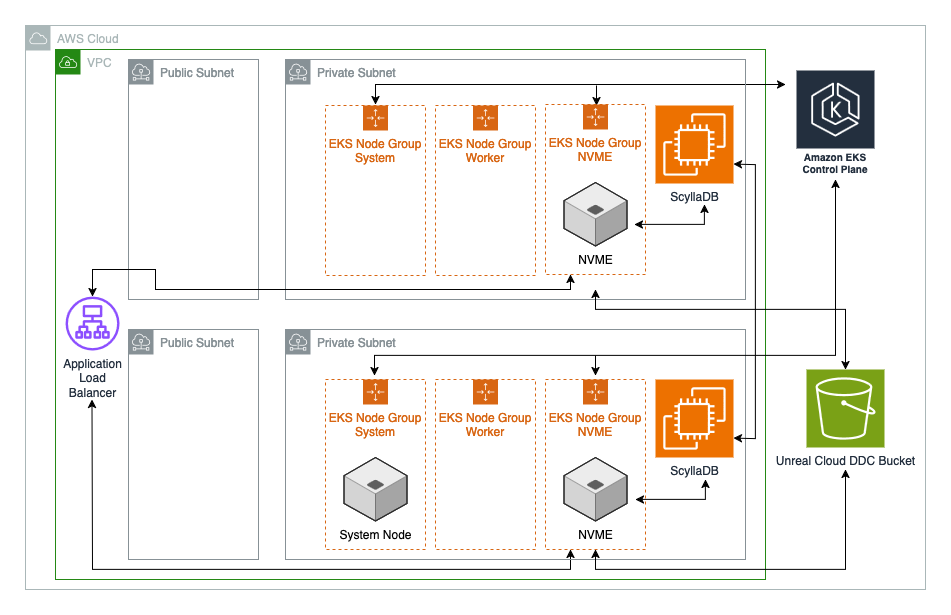
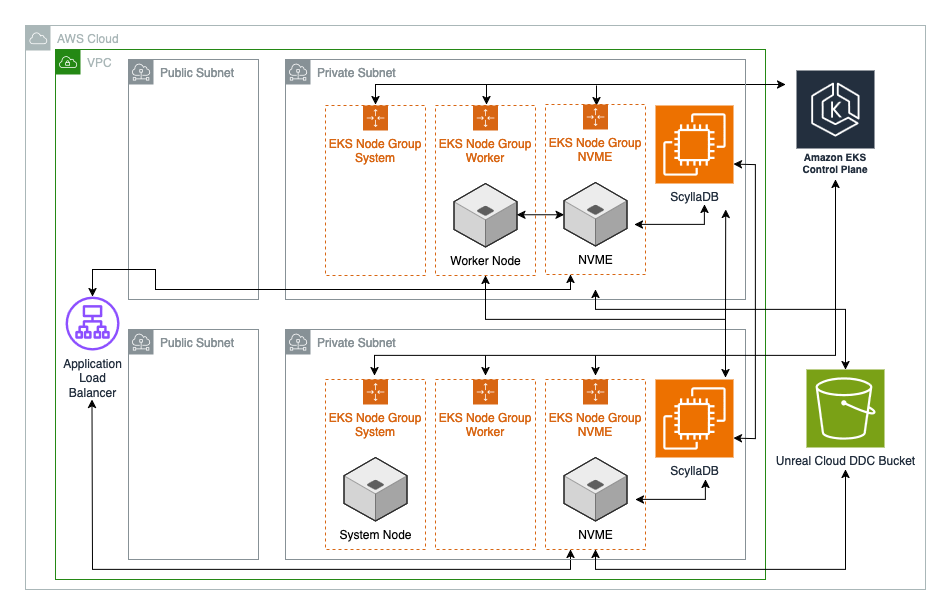
updated docs for release

Changed region(s): [[0.4574, 0.3089, 0.6099, 0.4325], [0.5184, 0.4943, 0.7624, 0.5252]]

diff --git a/docs/samples/unreal-cloud-ddc-single-region.md b/docs/samples/unreal-cloud-ddc-single-region.md
@@ -1,0 +1,89 @@
+---
+title: Unreal Cloud Derived Data Cache - Single Region
+description: Unreal Cloud Derived Data Cache implementation on AWS
+---
+
+# Unreal Cloud DDC Single Region
+
+The Unreal Cloud DDC Single Region is a comprehensive solution that leverages several AWS services to create a robust and efficient data caching system. It uses a well-designed Virtual Private Cloud (VPC) to ensure network isolation and security. The solution employs an Amazon Elastic Kubernetes Service (EKS) Cluster with Node Groups to manage and orchestrate containerized applications.
+
+At the heart of the system is an instance of ScyllaDB, a high-performance NoSQL database, running on specially optimized Amazon EC2 instances. The Unreal Cloud Derived Data Cache Container is managed by Helm, a package manager for Kubernetes, and uses Amazon S3 for durable storage.
+
+## Predeployment
+
+There are a couple of important steps you need to complete before deploying this architecture:
+
+### 1. Allowlist your IP
+
+The [Unreal Cloud DDC Infrastructure Module](../modules/) requires you to place the IP of the machine interacting with the EKS Cluster within an allow list. You can hard code this in the ```var.eks_cluster_allow_list``` if you have more than 1 IP you want to allow list or utilize the data block within the sample.
+
+### 2. Set Up Github Content Repository Credentials
+
+The [Unreal Cloud DDC Inter Cluster module](../modules/unreal/unreal-cloud-ddc-intra-cluster) utilizes a pull through cache to access the [Unreal Cloud DDC image](https://github.com/orgs/EpicGames/packages/container/package/unreal-cloud-ddc). This requires a secret in [Secrets Manager](https://aws.amazon.com/secrets-manager/). The secret needs to be prefixed with ````ecr-pullthroughcache/````. Additionally, the secret is required to be in the following format:
+```json
+{
+  "username":"GITHUB-USER-NAME-PLACEHOLDER",
+  "accessToken":"GITHUB-ACCESS-TOKEN-PLACEHOLDER"
+}
+```
+
+## Deployment
+
+Once you've completed the prerequisites and set your variables, you can deploy the solution by running:
+
+``` bash
+terraform apply
+```
+
+The deployment can take close to 30 minutes. Creating the EKS Node Groups and EKS Cluster take around 20 minutes to fully deploy.
+## Postdeployment
+The sample also deploys a NLB as part of the Unreal Cloud DDC deployment. You will need to go to the EC2 Loadbalncing screen to get the NLB that is created and wait for it to finish provisioning.
+
+To begin interacting with the Unreal Cloud DDC deployment you will need to go to secrets manager and access the secret that was created and used as the Service Account token to interact with the Unreal Cloud DDC deployment.
+
+To validate you can put an object you can run:
+```bash
+curl http://<nlb-dns>/api/v1/refs/ddc/default/00000000000000000000000000000000000000aa -X PUT --data 'test' -H 'content-type: application/octet-stream' -H 'X-Jupiter-IoHash: 4878CA0425C739FA427F7EDA20FE845F6B2E46BA' -i -H 'Authorization: ServiceAccount <secret-manager-token>'
+```
+After running this you should get a response that looks as the following:
+```
+HTTP/1.1 200 OK
+Server: nginx
+Date: Wed, 29 Jan 2025 19:15:05 GMT
+Content-Type: application/json; charset=utf-8
+Transfer-Encoding: chunked
+Connection: keep-alive
+Server-Timing: blob.put.FileSystemStore;dur=0.1451;desc="PUT to store: 'FileSystemStore'",blob.put.AmazonS3Store;dur=267.0449;desc="PUT to store: 'AmazonS3Store'",blob.get-metadata.FileSystemStore;dur=0.0406;desc="Blob GET Metadata from: 'FileSystemStore'",ref.finalize;dur=7.1407;desc="Finalizing the ref",ref.put;dur=25.2064;desc="Inserting ref"
+
+{"needs":[]}%
+```
+
+You can then access the same chunk with the following command:
+```bash
+curl http://<nlb-dns>/api/v1/refs/ddc/default/00000000000000000000000000000000000000aa.json -i -H 'Authorization: ServiceAccount <secret-manager-token>'
+```
+
+The response should look like the following:
+```
+HTTP/1.1 200 OK
+Server: nginx
+Date: Wed, 29 Jan 2025 19:16:46 GMT
+Content-Type: application/json
+Content-Length: 66
+Connection: keep-alive
+X-Jupiter-IoHash: 7D873DCC262F62FBAA871FE61B2B52D715A1171E
+X-Jupiter-LastAccess: 01/29/2025 19:16:46
+Server-Timing: ref.get;dur=0.0299;desc="Fetching Ref from DB"
+
+{"RawHash":"4878ca0425c739fa427f7eda20fe845f6b2e46ba","RawSize":4}%
+```
+For a more comprehensive test of your deployment, we recommend using the [bench marking tools](https://github.com/EpicGames/UnrealEngine/tree/release/Engine/Source/Programs/UnrealCloudDDC/Benchmarks). To do so we used a x2idn.32xlarge as it matched Epic's benchmarking instance to test their configuration.
+
+With the benchmarking tools we ran the following command after compiling the docker image:
+```bash
+docker run --network host jupiter_benchmark --seed --seed-remote --host http://<nlb-dns> --namespace ddc \
+--header="Authorization: ServiceAccount <secrets-manager-token>" all
+```
+Just a note here, you will have to specify the namespace to be DDC as the token only has access to that namespace.
+
+**It is recommended that if you are using this in a production capacity you change the authentication mode from Service Account to Bearer and use an IDP to authenticate.**

diff --git a/docs/modules/unreal/unreal-cloud-ddc-intra-cluster/unreal-cloud-ddc-intra-cluster.md b/docs/modules/unreal/unreal-cloud-ddc-intra-cluster/unreal-cloud-ddc-intra-cluster.md
@@ -9,24 +9,23 @@ description: Unreal Engine Cloud Derived Data Cache Intra Cluster Terraform modu
 
 [Unreal Cloud Derived Data Cache](https://github.com/EpicGames/UnrealEngine/tree/release/Engine/Source/Programs/UnrealCloudDDC) is a set of services supporting distributed team workflows to accelerate cook processes in Unreal Engine. This module deploys the [image available from the Epic Games Github organization.](https://github.com/orgs/EpicGames/packages/container/package/unreal-cloud-ddc), configures service accounts and IAM roles required to run Unreal Cloud DDC.
 
-This module utilizes the [Terraform EKS Blueprints Addons](https://github.com/aws-ia/terraform-aws-eks-blueprints-addons) repository to install CoreDNS, Kube-Proxy, VPC-CNI, EBS CSI Driver, AWS Load Balancer and CloudWatch Metrics Addons to the cluster with the required IAM roles and service accounts.
+This module currently utilizes the [Terraform EKS Blueprints Addons](https://github.com/aws-ia/terraform-aws-eks-blueprints-addons) repository to install CoreDNS, Kube-Proxy, VPC-CNI, EBS CSI Driver, AWS Load Balancer and CloudWatch Metrics Addons to the cluster with the required IAM roles and service accounts.
 
 ## Deployment Architecture
-![Unreal Engine Cloud DDC Infrastructure Module Architecture](../../../media/images/unreal-engine-horde-architecture.png)
+![Unreal Engine Cloud DDC Infrastructure Module Architecture](../../../media/images/unreal-cloud-ddc-single-region.png)
 
 ## Prerequisites
 This module is to be used in conjunction with the Unreal Cloud DDC Infra Module which sets up all the required infrastructure for the images.
 
-This module also requires two secrets to be set up prior:
+This module requires two secrets to be set up prior:
 
-external_idp_oidc_credential_arn is set up for the Secrets Manager resolver for a Client Secret for  Unreal Cloud DDC("aws!arn:aws:secretsmanager:region-A:<aws-account-number>:secret:ddc-storage-oktaaccount|client_secret"). The format of your secrets needs to be in JSON but can have any field you require. See [Unreal Cloud DDC Helm documentation](https://github.com/EpicGames/UnrealEngine/tree/release/Engine/Source/Programs/UnrealCloudDDC/Helm/UnrealCloudDDC). A sample example is as follows:
+If you are using client secrets for OIDC, external_idp_oidc_credential_arn is set up for the Secrets Manager resolver for a Client Secret for  Unreal Cloud DDC("aws!arn:aws:secretsmanager:<region>:<aws-account-number>:secret:<secret-name>|<json-field>"). See [Unreal Cloud DDC Helm documentation](https://github.com/EpicGames/UnrealEngine/tree/release/Engine/Source/Programs/UnrealCloudDDC/Helm/UnrealCloudDDC). A sample example is as follows:
 ```
 {
     "client_secret":"CLIENT-SECRET-PLACEHOLDER",
     "client_id":"CLIENT-ID-PLACEHOLDER"
 }
 ```
-A value is currently required here for the module to set up properly.
 
 github_credential_arn is required for the ECR pull through cache to resolve the image. This is required to have the prefix of ecr-pullthrough and the fields of username and access_token. Your structure will have be exact as the following:
 ```
@@ -35,3 +34,6 @@ github_credential_arn is required for the ECR pull through cache to resolve the 
     "accessToken":"GITHUB-ACCESS-TOKEN-PLACEHOLDER"
 }
 ```
+The name of this secret is also required to be prefaced with "ecr-pullthroughcache/" as this is required by the pull through cache to function.
+
+unreal_cloud_ddc_helm_values is an open ended way for you to include your helm values to configure the Unreal Cloud DDC deployment. We generally recommend you to use a template file. You can see a sample template file in the single region sample on how to configure the Unreal Cloud DDC in this manner.

diff --git a/docs/modules/unreal/unreal-cloud-ddc-infra/unreal-cloud-ddc-infra.md b/docs/modules/unreal/unreal-cloud-ddc-infra/unreal-cloud-ddc-infra.md
@@ -15,7 +15,7 @@ Unreal Cloud Derived Data Cache relies on a Cassandra compatible database which 
 ![Unreal Engine Cloud DDC Infra Module Architecture](../../../media/images/unreal-cloud-ddc-infra.png)
 
 ## Prerequisites
-The Unreal Engine Cloud DDC Infrastructure Module has a dependency on a VPC with Subnets. The preferred configuration is a VPC with 2 public subnets and 2 private subnets that span 2 Availability Zones.
+The Unreal Engine Cloud DDC Infrastructure Module has a dependency on a VPC with Subnets. The preferred configuration is a VPC with 2 public subnets and 2 private subnets that span 2 Availability Zones and an S3 interface.
 
 For the variable, eks_node_group_subnets adding additional subnets will register all listed subnets as subnets where nodes can be deployed.
 
